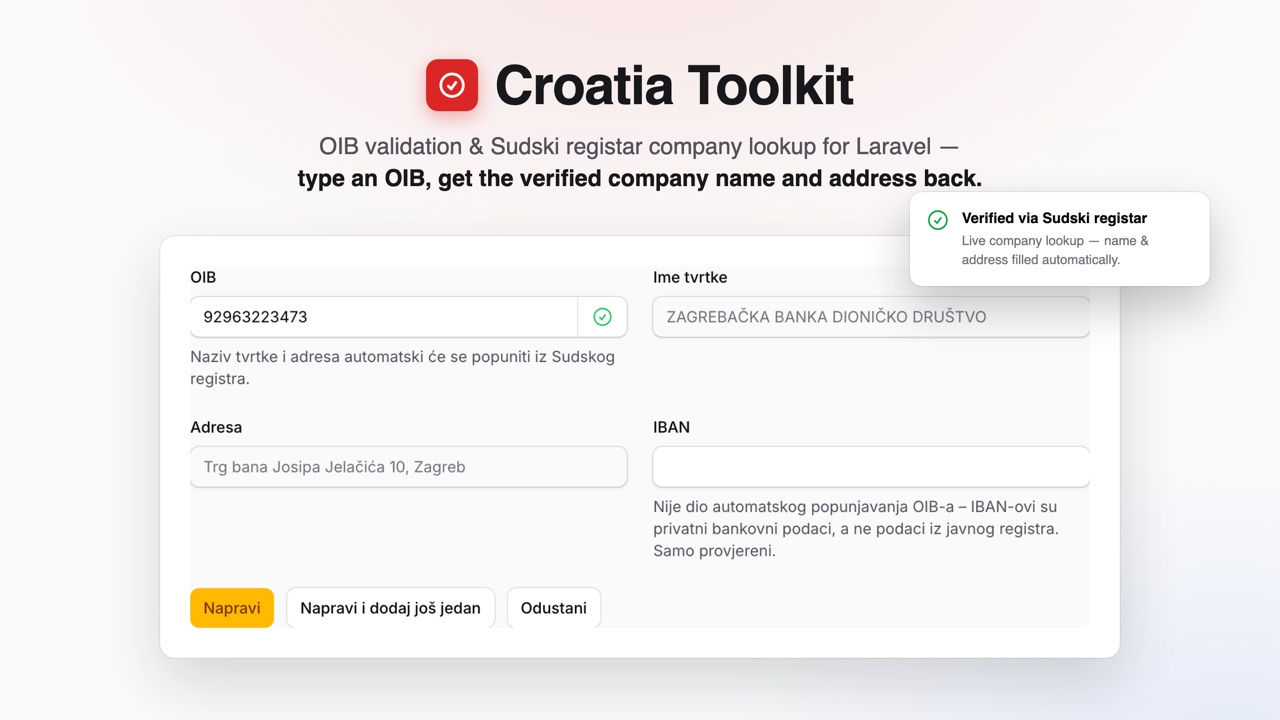
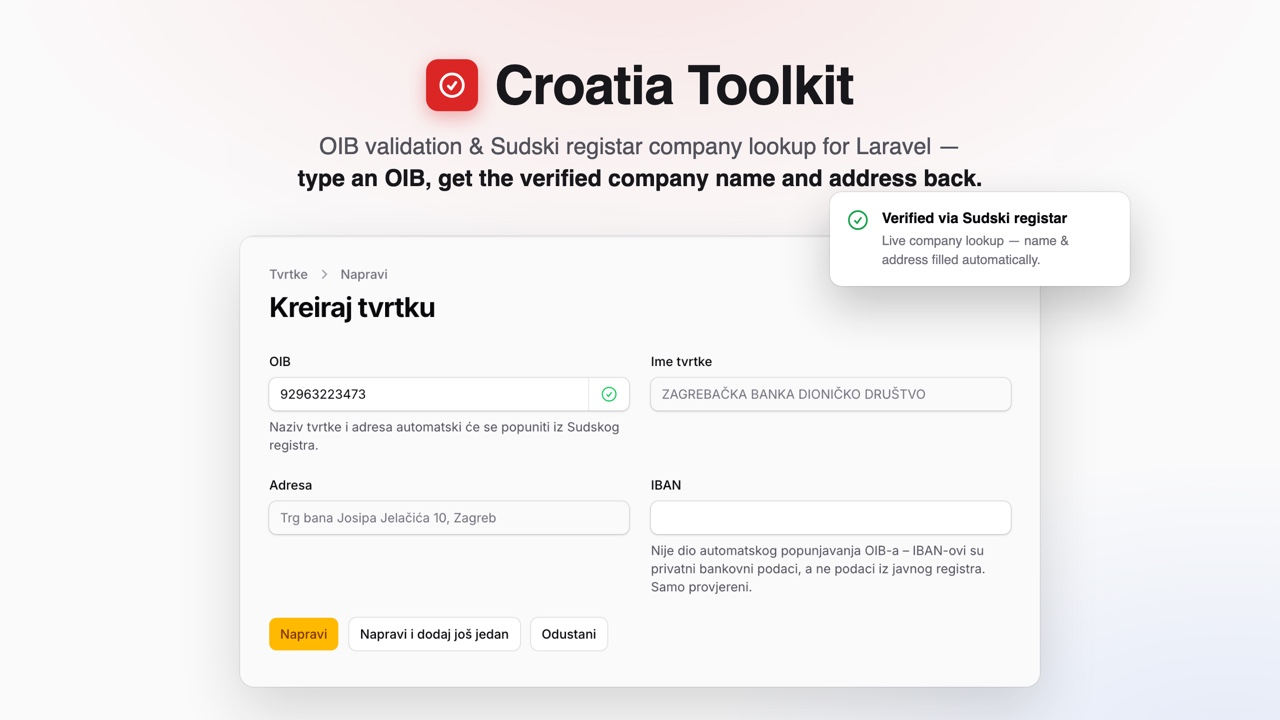
Fix listing image properly: capture more real page, not a fake frame
The previous fix (white CSS padding around a tight .fi-page-content
crop) was the wrong approach -- it created a visible white/gray seam
since the screenshot's own background didn't match the padding color,
and still left an awkward empty gap where the two form columns have
different natural heights. Real fix: capture breadcrumb + title +
form + buttons as one screenshot (clipped explicitly, since `main`'s
own box extends into empty page space past the real content), so the
whole thing shares Filament's actual background and native spacing --
no synthetic frame needed. Narrowed the composed shot to 800px so the
now-wider/shorter screenshot's aspect ratio still fits the 1280x720
canvas without clipping the bottom.

diff --git a/docs/listing-src/capture.js b/docs/listing-src/capture.js
@@ -21,7 +21,21 @@ const { chromium } = require('playwright');
     await oibInput.blur();
     await p.waitForTimeout(2000);
 
-    await p.locator('.fi-page-content').first().screenshot({ path: 'form-card.png' });
+    // Capture breadcrumb + title + form, stopping just past the action buttons
+    // -- `main`'s own box extends far past the real content into empty page
+    // space, so clip explicitly instead of screenshotting the whole element.
+    const mainBox = await p.locator('main').first().boundingBox();
+    const buttonsBox = await p.getByRole('button', { name: 'Odustani' }).boundingBox();
+    const bottomPad = 40;
+    await p.screenshot({
+        path: 'form-card.png',
+        clip: {
+            x: mainBox.x,
+            y: mainBox.y,
+            width: mainBox.width,
+            height: (buttonsBox.y + buttonsBox.height + bottomPad) - mainBox.y,
+        },
+    });
 
     await b.close();
 })();

diff --git a/docs/listing-src/listing-hero.html b/docs/listing-src/listing-hero.html
@@ -16,10 +16,9 @@ h1 { color: #18181b; font-size: 54px; letter-spacing: -1px; font-weight: 800; }
   text-align: center; max-width: 860px; line-height: 1.4; }
 .tag b { color: #18181b; font-weight: 600; }
 .wrap { position: relative; }
-.shot { width: 960px; border-radius: 14px; overflow: hidden; background: #fff;
-  padding: 30px;
+.shot { width: 800px; border-radius: 14px; overflow: hidden;
   box-shadow: 0 24px 60px rgba(24,24,27,0.16), 0 0 0 1px rgba(24,24,27,0.07); }
-.shot img { width: 100%; display: block; border-radius: 8px; }
+.shot img { width: 100%; display: block; }
 .badge { position: absolute; top: -44px; right: -90px; width: 300px;
   display: flex; gap: 12px; align-items: flex-start;
   background: #fff; border-radius: 12px; padding: 16px;
